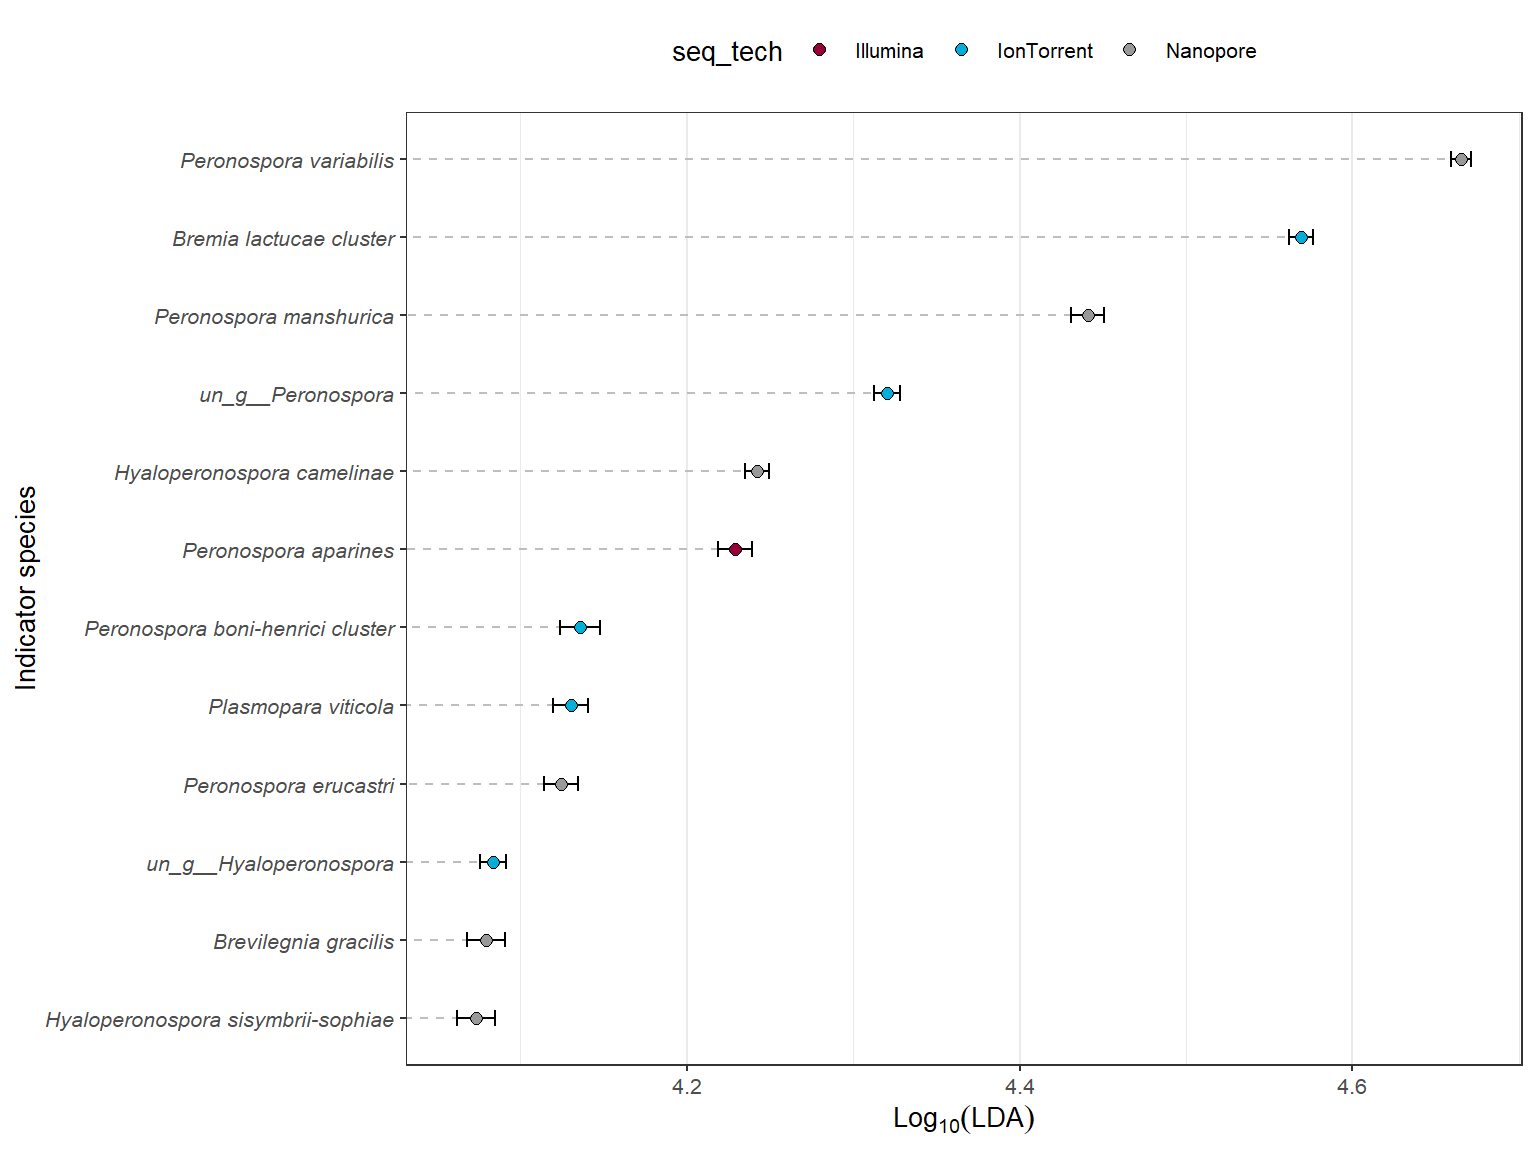
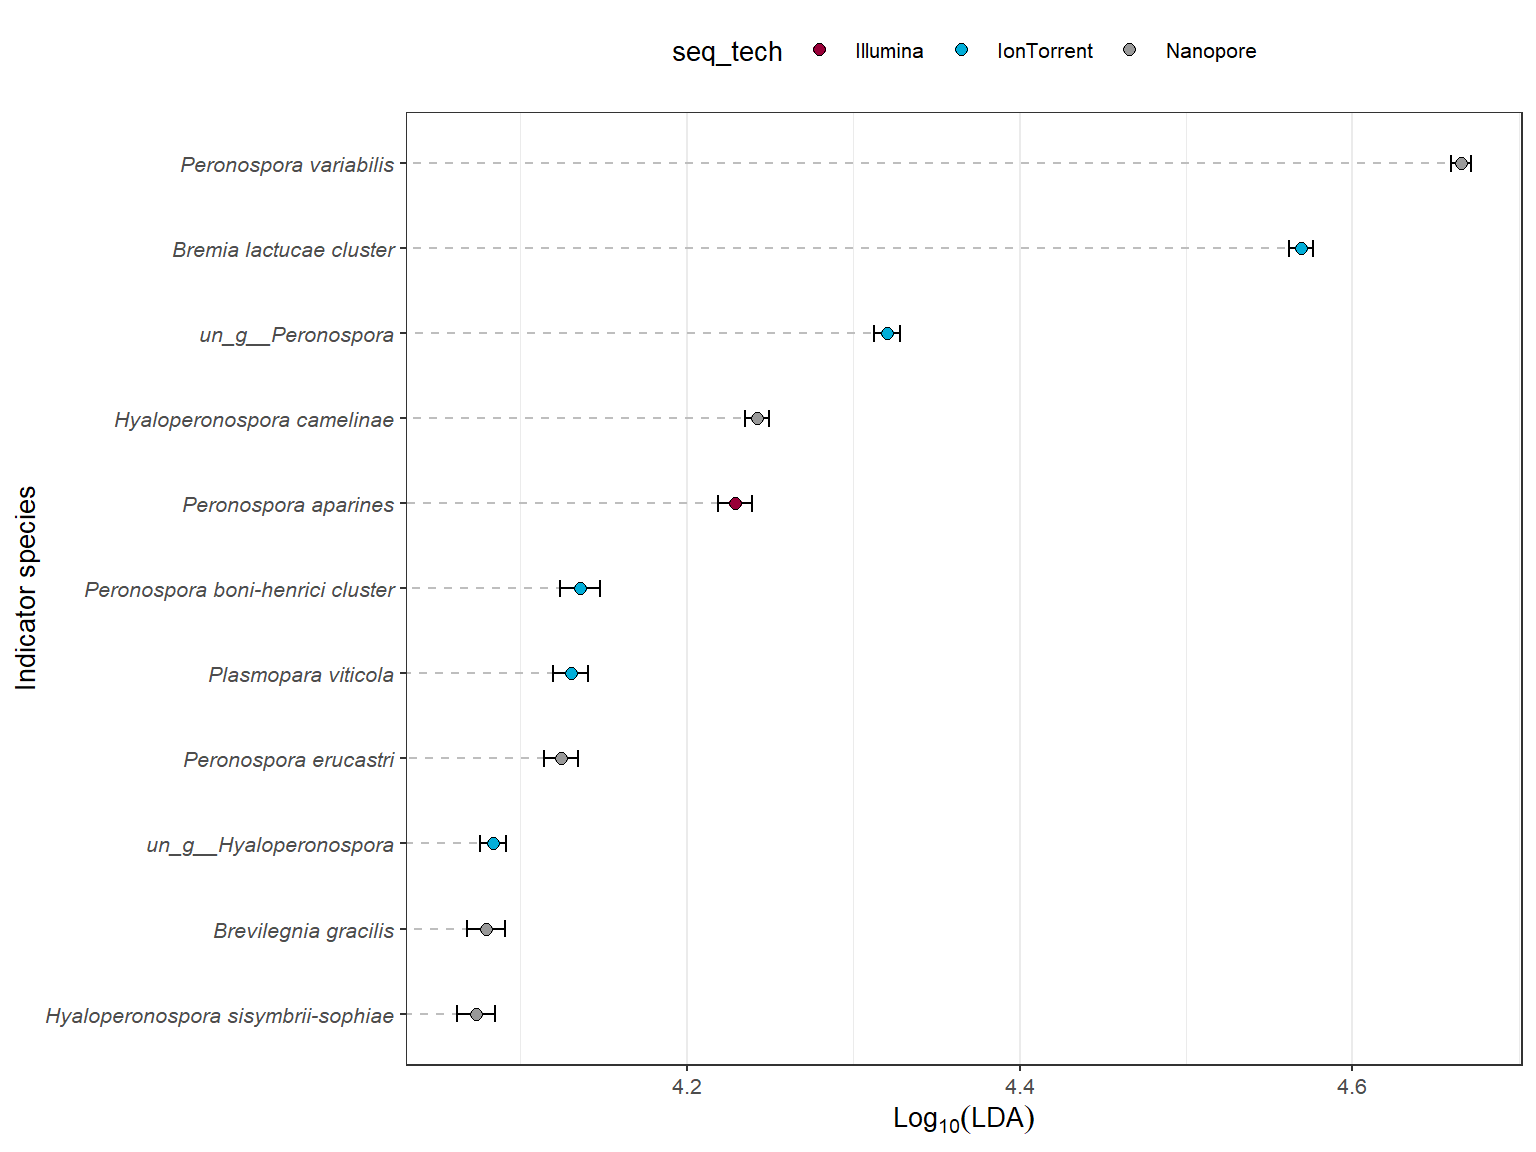
update_site

diff --git a/8_biomarker-discovery.html b/8_biomarker-discovery.html
@@ -515,7 +515,7 @@ estimate the effect size of each differentially abundant feature.</p>
 <span id="cb1-22"><a href="#cb1-22" tabindex="-1"></a>                       <span class="at">subclmin =</span> <span class="dv">5</span>,</span>
 <span id="cb1-23"><a href="#cb1-23" tabindex="-1"></a>                       <span class="at">subclwilc =</span> <span class="cn">TRUE</span>,</span>
 <span id="cb1-24"><a href="#cb1-24" tabindex="-1"></a>                       <span class="at">ldascore =</span> <span class="dv">4</span>,</span>
-<span id="cb1-25"><a href="#cb1-25" tabindex="-1"></a>                       <span class="at">secondalpha =</span> <span class="fl">0.05</span>,</span>
+<span id="cb1-25"><a href="#cb1-25" tabindex="-1"></a>                       <span class="at">secondalpha =</span> <span class="fl">0.01</span>,</span>
 <span id="cb1-26"><a href="#cb1-26" tabindex="-1"></a>                       <span class="at">lda =</span> <span class="dv">4</span>,</span>
 <span id="cb1-27"><a href="#cb1-27" tabindex="-1"></a>                       <span class="at">normalization =</span> <span class="fl">1e+06</span>,</span>
 <span id="cb1-28"><a href="#cb1-28" tabindex="-1"></a>                       <span class="at">bootnums=</span><span class="dv">999</span>,</span>
@@ -527,25 +527,72 @@ estimate the effect size of each differentially abundant feature.</p>
 <span id="cb1-34"><a href="#cb1-34" tabindex="-1"></a></span>
 <span id="cb1-35"><a href="#cb1-35" tabindex="-1"></a>oom_ana_results[<span class="fu">c</span>(<span class="st">&#39;order&#39;</span>, <span class="st">&#39;Species&#39;</span>)] <span class="ot">&lt;-</span> <span class="fu">str_split_fixed</span>(oom_ana_results<span class="sc">$</span>f, <span class="st">&#39;__&#39;</span>, <span class="dv">2</span>)</span>
 <span id="cb1-36"><a href="#cb1-36" tabindex="-1"></a></span>
-<span id="cb1-37"><a href="#cb1-37" tabindex="-1"></a>oom_ana_results_S <span class="ot">&lt;-</span> <span class="fu">subset</span>(oom_ana_results, order <span class="sc">==</span> <span class="st">&#39;s&#39;</span>)</span></code></pre></div>
-<div class="sourceCode" id="cb2"><pre class="sourceCode r"><code class="sourceCode r"><span id="cb2-1"><a href="#cb2-1" tabindex="-1"></a><span class="fu">ggplot</span>(oom_ana_results_S,</span>
-<span id="cb2-2"><a href="#cb2-2" tabindex="-1"></a>       <span class="fu">aes</span>(<span class="at">x=</span>LDAmean, <span class="at">y=</span><span class="fu">reorder</span>(Species, LDAmean)))<span class="sc">+</span></span>
-<span id="cb2-3"><a href="#cb2-3" tabindex="-1"></a>  <span class="fu">geom_segment</span>(<span class="fu">aes</span>(<span class="at">yend=</span>Species), <span class="at">xend=</span><span class="dv">0</span>, <span class="at">colour=</span> <span class="st">&quot;grey&quot;</span>, </span>
-<span id="cb2-4"><a href="#cb2-4" tabindex="-1"></a>               <span class="at">linetype=</span><span class="st">&quot;dashed&quot;</span>)<span class="sc">+</span></span>
-<span id="cb2-5"><a href="#cb2-5" tabindex="-1"></a>  <span class="fu">geom_errorbarh</span>(<span class="fu">aes</span>(<span class="at">xmin=</span>oom_ana_results_S<span class="sc">$</span>LDAlower, </span>
-<span id="cb2-6"><a href="#cb2-6" tabindex="-1"></a>                      <span class="at">xmax=</span>oom_ana_results_S<span class="sc">$</span>LDAupper,</span>
-<span id="cb2-7"><a href="#cb2-7" tabindex="-1"></a>                      <span class="at">height =</span> .<span class="dv">2</span>))<span class="sc">+</span></span>
-<span id="cb2-8"><a href="#cb2-8" tabindex="-1"></a>  <span class="fu">geom_point</span>(<span class="at">size=</span><span class="dv">2</span>, <span class="at">shape=</span><span class="dv">21</span>, <span class="fu">aes</span>(<span class="at">fill=</span>seq_tech))<span class="sc">+</span></span>
-<span id="cb2-9"><a href="#cb2-9" tabindex="-1"></a>  <span class="fu">scale_fill_manual</span>(<span class="at">values=</span><span class="fu">c</span>(<span class="st">&quot;#990038&quot;</span>, </span>
-<span id="cb2-10"><a href="#cb2-10" tabindex="-1"></a>                             <span class="st">&quot;#01AED9&quot;</span>,</span>
-<span id="cb2-11"><a href="#cb2-11" tabindex="-1"></a>                             <span class="st">&quot;#999999&quot;</span>))<span class="sc">+</span></span>
-<span id="cb2-12"><a href="#cb2-12" tabindex="-1"></a>  <span class="fu">theme_bw</span>(<span class="at">base_size =</span> <span class="dv">10</span>)<span class="sc">+</span></span>
-<span id="cb2-13"><a href="#cb2-13" tabindex="-1"></a>  <span class="fu">theme</span>(<span class="at">panel.grid.major.y =</span> <span class="fu">element_blank</span>())<span class="sc">+</span></span>
-<span id="cb2-14"><a href="#cb2-14" tabindex="-1"></a>  <span class="fu">theme</span>(<span class="at">legend.position=</span><span class="st">&quot;top&quot;</span>)<span class="sc">+</span></span>
-<span id="cb2-15"><a href="#cb2-15" tabindex="-1"></a>  <span class="fu">xlab</span>(<span class="fu">bquote</span>(Log[<span class="dv">10</span>](LDA)))<span class="sc">+</span></span>
-<span id="cb2-16"><a href="#cb2-16" tabindex="-1"></a>  <span class="fu">ylab</span>(<span class="st">&quot;Indicator species&quot;</span>)<span class="sc">+</span></span>
-<span id="cb2-17"><a href="#cb2-17" tabindex="-1"></a>  <span class="fu">theme</span>(<span class="at">axis.text.y =</span> <span class="fu">element_text</span>(<span class="at">face =</span> <span class="st">&quot;italic&quot;</span>))</span></code></pre></div>
+<span id="cb1-37"><a href="#cb1-37" tabindex="-1"></a>oom_ana_results_S <span class="ot">&lt;-</span> <span class="fu">subset</span>(oom_ana_results, order <span class="sc">==</span> <span class="st">&#39;s&#39;</span>)</span>
+<span id="cb1-38"><a href="#cb1-38" tabindex="-1"></a></span>
+<span id="cb1-39"><a href="#cb1-39" tabindex="-1"></a><span class="fu">head</span>(oom_ana_results_S)</span></code></pre></div>
+<pre><code>##                                        f LDAupper  LDAmean LDAlower   seq_tech
+## 1                 s__Plasmopara viticola 4.140866 4.130304 4.119480 IonTorrent
+## 2  s__Hyaloperonospora sisymbrii-sophiae 4.084519 4.073358 4.061903   Nanopore
+## 4                s__Brevilegnia gracilis 4.090683 4.079273 4.067555   Nanopore
+## 5                   s__un_g__Peronospora 4.327897 4.320203 4.312371 IonTorrent
+## 6    s__Peronospora boni-henrici cluster 4.147639 4.135961 4.123960 IonTorrent
+## 11         s__Hyaloperonospora camelinae 4.249655 4.242375 4.234972   Nanopore
+##          pvalue          fdr order                            Species
+## 1  1.709812e-38 2.274050e-36     s                Plasmopara viticola
+## 2  1.158482e-35 7.703905e-34     s Hyaloperonospora sisymbrii-sophiae
+## 4  1.984491e-30 5.278746e-29     s               Brevilegnia gracilis
+## 5  1.088230e-28 2.412243e-27     s                  un_g__Peronospora
+## 6  3.219376e-26 6.116814e-25     s   Peronospora boni-henrici cluster
+## 11 4.483981e-17 4.259782e-16     s         Hyaloperonospora camelinae</code></pre>
+<div class="sourceCode" id="cb3"><pre class="sourceCode r"><code class="sourceCode r"><span id="cb3-1"><a href="#cb3-1" tabindex="-1"></a><span class="fu">ggplot</span>(oom_ana_results_S,</span>
+<span id="cb3-2"><a href="#cb3-2" tabindex="-1"></a>       <span class="fu">aes</span>(<span class="at">x=</span>LDAmean, <span class="at">y=</span><span class="fu">reorder</span>(Species, LDAmean)))<span class="sc">+</span></span>
+<span id="cb3-3"><a href="#cb3-3" tabindex="-1"></a>  <span class="fu">geom_segment</span>(<span class="fu">aes</span>(<span class="at">yend=</span>Species), <span class="at">xend=</span><span class="dv">0</span>, <span class="at">colour=</span> <span class="st">&quot;grey&quot;</span>, </span>
+<span id="cb3-4"><a href="#cb3-4" tabindex="-1"></a>               <span class="at">linetype=</span><span class="st">&quot;dashed&quot;</span>)<span class="sc">+</span></span>
+<span id="cb3-5"><a href="#cb3-5" tabindex="-1"></a>  <span class="fu">geom_errorbarh</span>(<span class="fu">aes</span>(<span class="at">xmin=</span>oom_ana_results_S<span class="sc">$</span>LDAlower, </span>
+<span id="cb3-6"><a href="#cb3-6" tabindex="-1"></a>                      <span class="at">xmax=</span>oom_ana_results_S<span class="sc">$</span>LDAupper,</span>
+<span id="cb3-7"><a href="#cb3-7" tabindex="-1"></a>                      <span class="at">height =</span> .<span class="dv">2</span>))<span class="sc">+</span></span>
+<span id="cb3-8"><a href="#cb3-8" tabindex="-1"></a>  <span class="fu">geom_point</span>(<span class="at">size=</span><span class="dv">2</span>, <span class="at">shape=</span><span class="dv">21</span>, <span class="fu">aes</span>(<span class="at">fill=</span>seq_tech))<span class="sc">+</span></span>
+<span id="cb3-9"><a href="#cb3-9" tabindex="-1"></a>  <span class="fu">scale_fill_manual</span>(<span class="at">values=</span><span class="fu">c</span>(<span class="st">&quot;#990038&quot;</span>, </span>
+<span id="cb3-10"><a href="#cb3-10" tabindex="-1"></a>                             <span class="st">&quot;#01AED9&quot;</span>,</span>
+<span id="cb3-11"><a href="#cb3-11" tabindex="-1"></a>                             <span class="st">&quot;#999999&quot;</span>))<span class="sc">+</span></span>
+<span id="cb3-12"><a href="#cb3-12" tabindex="-1"></a>  <span class="fu">theme_bw</span>(<span class="at">base_size =</span> <span class="dv">10</span>)<span class="sc">+</span></span>
+<span id="cb3-13"><a href="#cb3-13" tabindex="-1"></a>  <span class="fu">theme</span>(<span class="at">panel.grid.major.y =</span> <span class="fu">element_blank</span>())<span class="sc">+</span></span>
+<span id="cb3-14"><a href="#cb3-14" tabindex="-1"></a>  <span class="fu">theme</span>(<span class="at">legend.position=</span><span class="st">&quot;top&quot;</span>)<span class="sc">+</span></span>
+<span id="cb3-15"><a href="#cb3-15" tabindex="-1"></a>  <span class="fu">xlab</span>(<span class="fu">bquote</span>(Log[<span class="dv">10</span>](LDA)))<span class="sc">+</span></span>
+<span id="cb3-16"><a href="#cb3-16" tabindex="-1"></a>  <span class="fu">ylab</span>(<span class="st">&quot;Indicator species&quot;</span>)<span class="sc">+</span></span>
+<span id="cb3-17"><a href="#cb3-17" tabindex="-1"></a>  <span class="fu">theme</span>(<span class="at">axis.text.y =</span> <span class="fu">element_text</span>(<span class="at">face =</span> <span class="st">&quot;italic&quot;</span>))</span></code></pre></div>
 <p><img src="8_biomarker-discovery_files/figure-html/unnamed-chunk-2-1.png" width="768" style="display: block; margin: auto;" /></p>
+<div class="sourceCode" id="cb4"><pre class="sourceCode r"><code class="sourceCode r"><span id="cb4-1"><a href="#cb4-1" tabindex="-1"></a>diffclade_p <span class="ot">&lt;-</span> <span class="fu">ggdiffclade</span>(</span>
+<span id="cb4-2"><a href="#cb4-2" tabindex="-1"></a>                   <span class="at">obj=</span>oom_diff_res,</span>
+<span id="cb4-3"><a href="#cb4-3" tabindex="-1"></a>                   <span class="at">alpha=</span><span class="fl">0.03</span>, </span>
+<span id="cb4-4"><a href="#cb4-4" tabindex="-1"></a>                   <span class="at">linewd=</span><span class="fl">0.15</span>,</span>
+<span id="cb4-5"><a href="#cb4-5" tabindex="-1"></a>                   <span class="at">skpointsize=</span><span class="fl">0.6</span>, </span>
+<span id="cb4-6"><a href="#cb4-6" tabindex="-1"></a>                   <span class="at">layout=</span><span class="st">&quot;radial&quot;</span>,</span>
+<span id="cb4-7"><a href="#cb4-7" tabindex="-1"></a>                   <span class="at">taxlevel=</span><span class="dv">7</span>, </span>
+<span id="cb4-8"><a href="#cb4-8" tabindex="-1"></a>                   <span class="at">removeUnkown=</span><span class="cn">FALSE</span></span>
+<span id="cb4-9"><a href="#cb4-9" tabindex="-1"></a>                 ) <span class="sc">+</span></span>
+<span id="cb4-10"><a href="#cb4-10" tabindex="-1"></a>               <span class="fu">scale_fill_manual</span>(</span>
+<span id="cb4-11"><a href="#cb4-11" tabindex="-1"></a>                   <span class="at">values=</span><span class="fu">c</span>(<span class="st">&quot;#990038&quot;</span>, </span>
+<span id="cb4-12"><a href="#cb4-12" tabindex="-1"></a>                             <span class="st">&quot;#01AED9&quot;</span>,</span>
+<span id="cb4-13"><a href="#cb4-13" tabindex="-1"></a>                             <span class="st">&quot;#999999&quot;</span>)</span>
+<span id="cb4-14"><a href="#cb4-14" tabindex="-1"></a>               ) <span class="sc">+</span></span>
+<span id="cb4-15"><a href="#cb4-15" tabindex="-1"></a>               <span class="fu">guides</span>(<span class="at">color =</span> <span class="fu">guide_legend</span>(</span>
+<span id="cb4-16"><a href="#cb4-16" tabindex="-1"></a>                                  <span class="at">keywidth =</span> <span class="fl">0.1</span>, </span>
+<span id="cb4-17"><a href="#cb4-17" tabindex="-1"></a>                                  <span class="at">keyheight =</span> <span class="fl">0.6</span>,</span>
+<span id="cb4-18"><a href="#cb4-18" tabindex="-1"></a>                                  <span class="at">order =</span> <span class="dv">3</span>,</span>
+<span id="cb4-19"><a href="#cb4-19" tabindex="-1"></a>                                  <span class="at">ncol=</span><span class="dv">1</span>)</span>
+<span id="cb4-20"><a href="#cb4-20" tabindex="-1"></a>               ) <span class="sc">+</span></span>
+<span id="cb4-21"><a href="#cb4-21" tabindex="-1"></a>               <span class="fu">theme</span>(</span>
+<span id="cb4-22"><a href="#cb4-22" tabindex="-1"></a>                   <span class="at">panel.background=</span><span class="fu">element_rect</span>(<span class="at">fill=</span><span class="cn">NA</span>),</span>
+<span id="cb4-23"><a href="#cb4-23" tabindex="-1"></a>                   <span class="at">legend.position=</span><span class="st">&quot;right&quot;</span>, </span>
+<span id="cb4-24"><a href="#cb4-24" tabindex="-1"></a>                   <span class="at">plot.margin=</span><span class="fu">margin</span>(<span class="dv">0</span>,<span class="dv">0</span>,<span class="dv">0</span>,<span class="dv">0</span>),</span>
+<span id="cb4-25"><a href="#cb4-25" tabindex="-1"></a>                   <span class="at">legend.spacing.y=</span><span class="fu">unit</span>(<span class="fl">0.02</span>, <span class="st">&quot;cm&quot;</span>), </span>
+<span id="cb4-26"><a href="#cb4-26" tabindex="-1"></a>                   <span class="at">legend.title=</span><span class="fu">element_text</span>(<span class="at">size=</span><span class="dv">7</span>),</span>
+<span id="cb4-27"><a href="#cb4-27" tabindex="-1"></a>                   <span class="at">legend.text=</span><span class="fu">element_text</span>(<span class="at">size=</span><span class="dv">6</span>), </span>
+<span id="cb4-28"><a href="#cb4-28" tabindex="-1"></a>                   <span class="at">legend.box.spacing=</span><span class="fu">unit</span>(<span class="fl">0.02</span>,<span class="st">&quot;cm&quot;</span>)</span>
+<span id="cb4-29"><a href="#cb4-29" tabindex="-1"></a>               )</span>
+<span id="cb4-30"><a href="#cb4-30" tabindex="-1"></a>diffclade_p</span></code></pre></div>
+<p><img src="8_biomarker-discovery_files/figure-html/unnamed-chunk-3-1.png" width="768" style="display: block; margin: auto;" /></p>
 </div>
 
 

diff --git a/setup_requirements.html b/setup_requirements.html
@@ -518,7 +518,7 @@ conveniences.</p></li>
 <div class="sourceCode" id="cb2"><pre class="sourceCode r"><code class="sourceCode r"><span id="cb2-1"><a href="#cb2-1" tabindex="-1"></a><span class="fu">library</span>(<span class="st">&quot;knitr&quot;</span>)</span>
 <span id="cb2-2"><a href="#cb2-2" tabindex="-1"></a></span>
 <span id="cb2-3"><a href="#cb2-3" tabindex="-1"></a>devtools<span class="sc">::</span><span class="fu">session_info</span>()</span></code></pre></div>
-<pre><code>## ─ Session info ──────────────────────────────────────────────────────────
+<pre><code>## ─ Session info ────────────────────────────────────────────────────────────────────────
 ##  setting  value
 ##  version  R version 4.4.1 (2024-06-14 ucrt)
 ##  os       Windows 10 x64 (build 19045)
@@ -531,7 +531,7 @@ conveniences.</p></li>
 ##  date     2024-10-24
 ##  pandoc   3.2 @ C:/Program Files/RStudio/resources/app/bin/quarto/bin/tools/ (via rmarkdown)
 ## 
-## ─ Packages ──────────────────────────────────────────────────────────────
+## ─ Packages ────────────────────────────────────────────────────────────────────────────
 ##  ! package              * version   date (UTC) lib source
 ##    abind                  1.4-8     2024-09-12 [1] CRAN (R 4.4.1)
 ##    ade4                   1.7-22    2023-02-06 [1] CRAN (R 4.4.0)
@@ -663,6 +663,7 @@ conveniences.</p></li>
 ##    sass                   0.4.9     2024-03-15 [1] CRAN (R 4.4.0)
 ##    scales                 1.3.0     2023-11-28 [1] CRAN (R 4.4.0)
 ##    sessioninfo            1.2.2     2021-12-06 [1] CRAN (R 4.4.0)
+##    shadowtext             0.1.4     2024-07-18 [1] CRAN (R 4.4.1)
 ##    shiny                  1.9.1     2024-08-01 [1] CRAN (R 4.4.1)
 ##    SparseArray            1.4.8     2024-06-02 [1] Bioconductor 3.19 (R 4.4.0)
 ##    stringi                1.8.4     2024-05-06 [1] CRAN (R 4.4.0)
@@ -701,7 +702,7 @@ conveniences.</p></li>
 ## 
 ##  D ── DLL MD5 mismatch, broken installation.
 ## 
-## ─────────────────────────────────────────────────────────────────────────</code></pre>
+## ───────────────────────────────────────────────────────────────────────────────────────</code></pre>
 </div>
 
 
